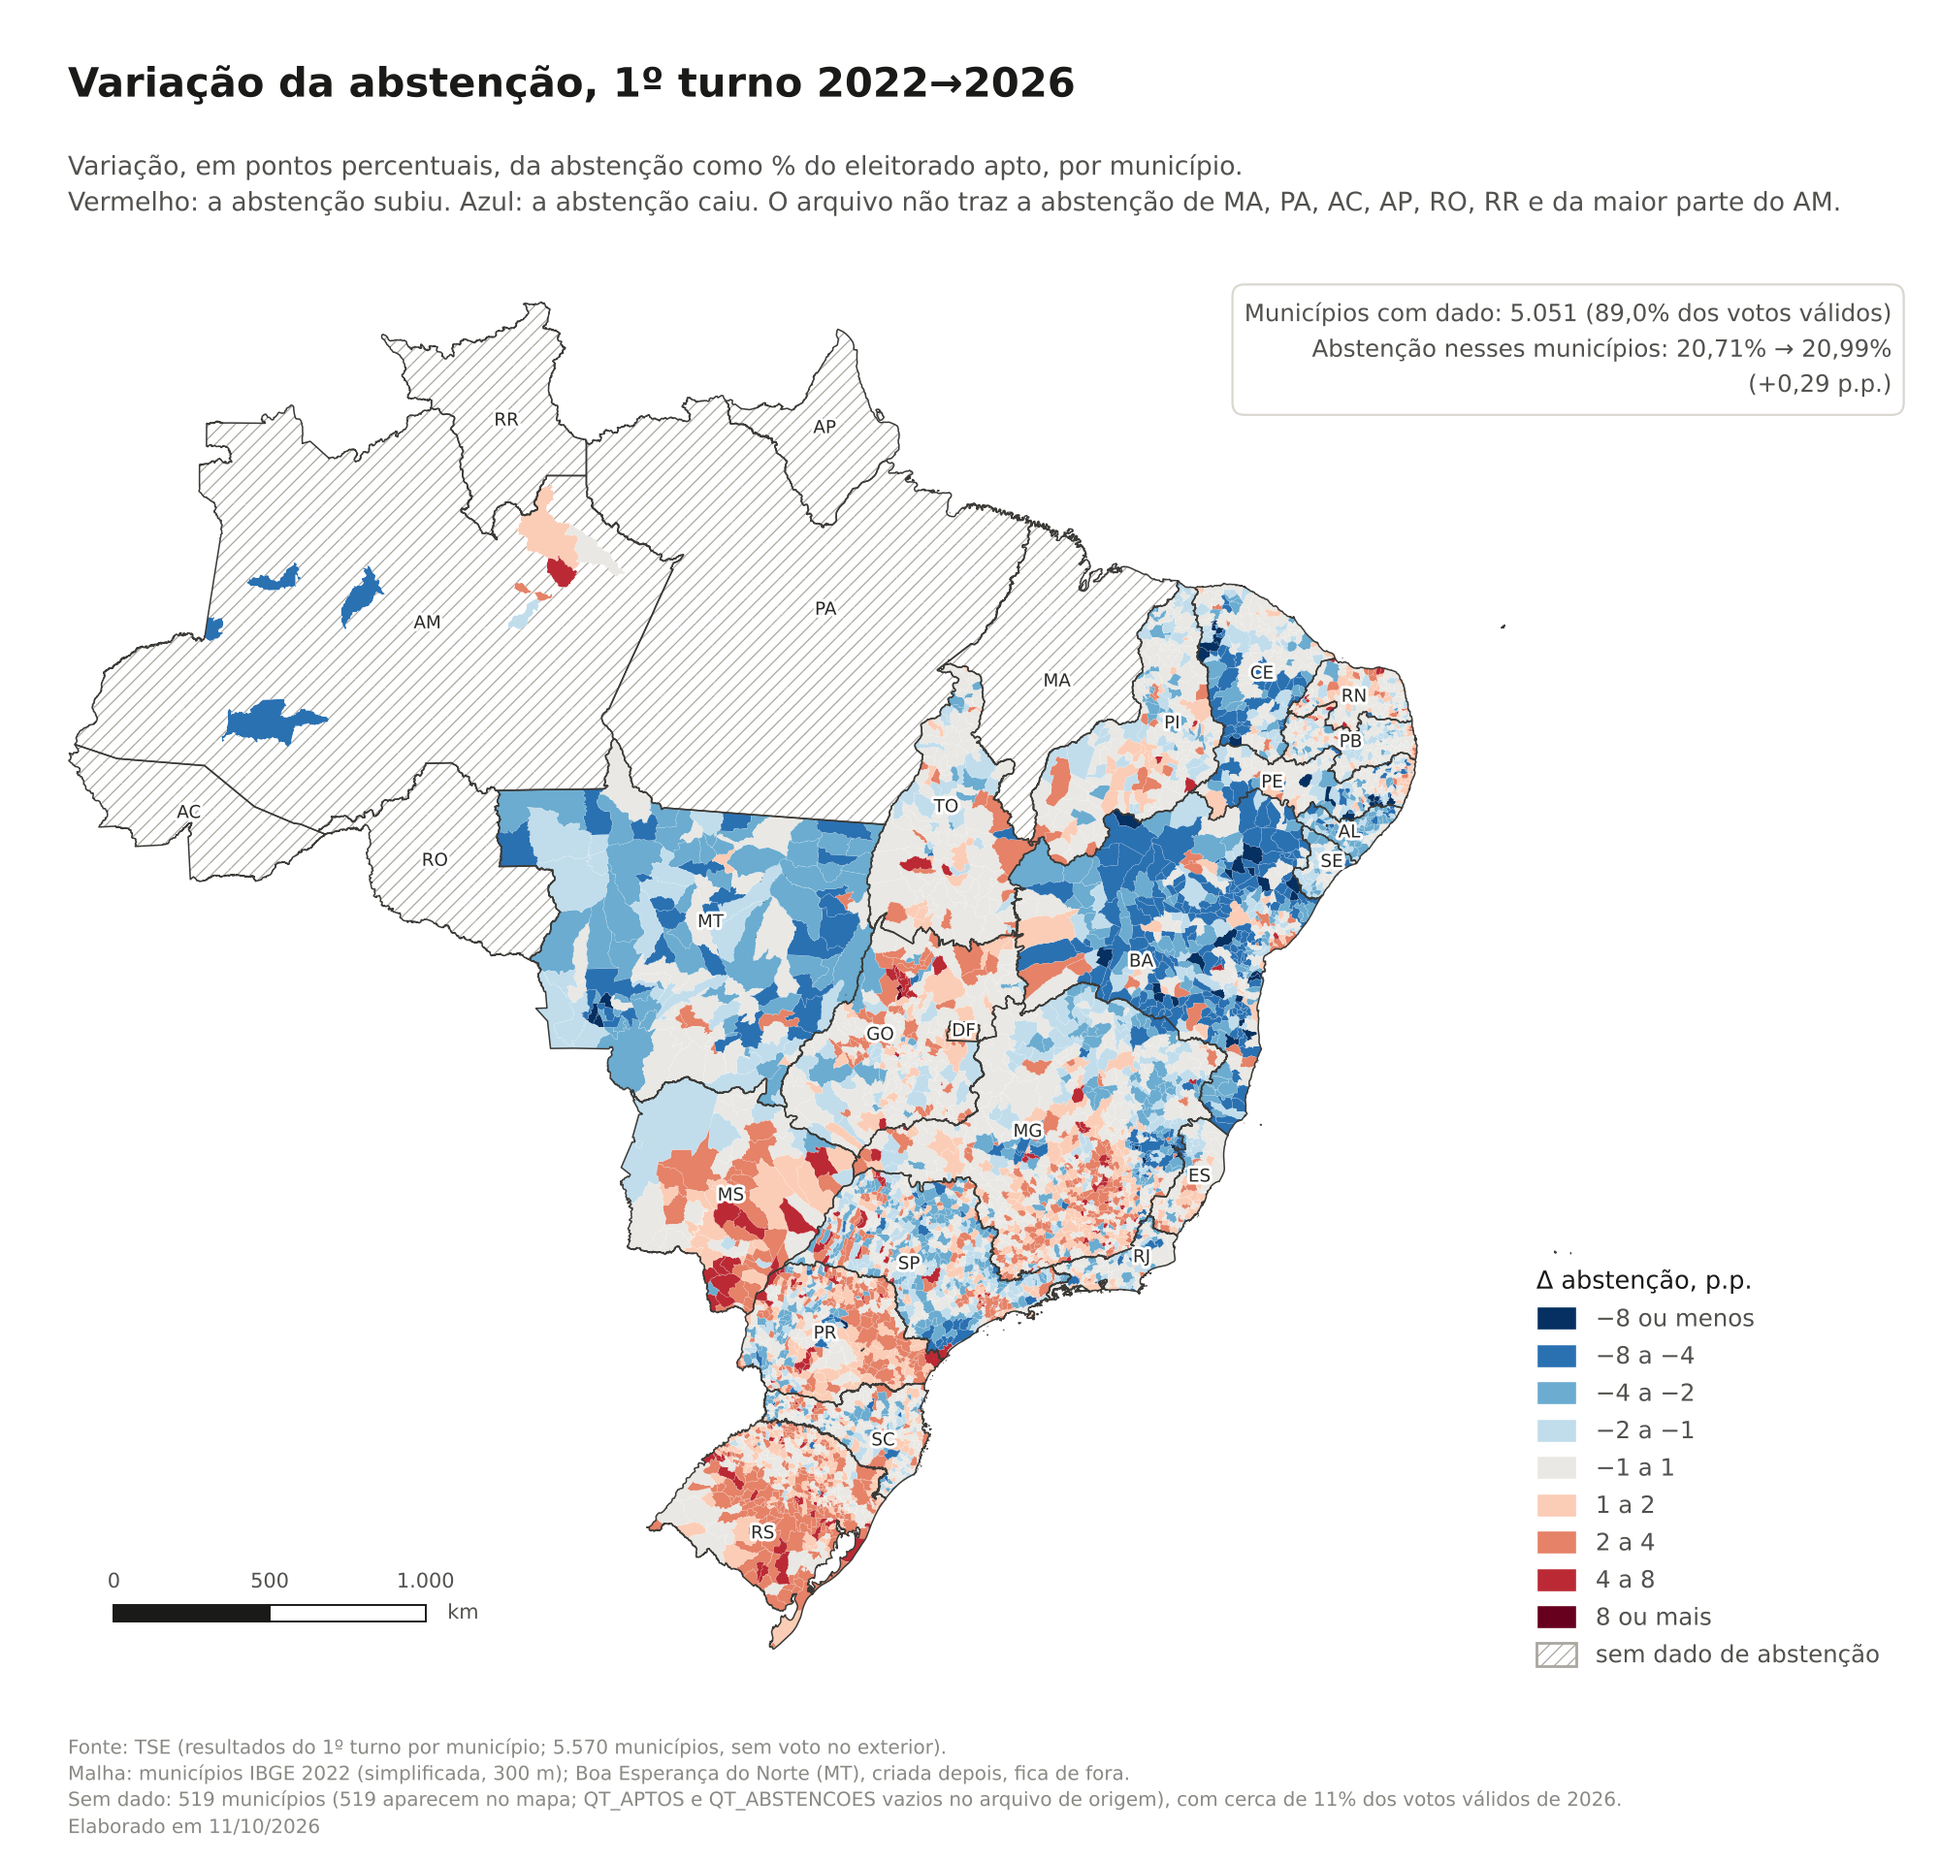
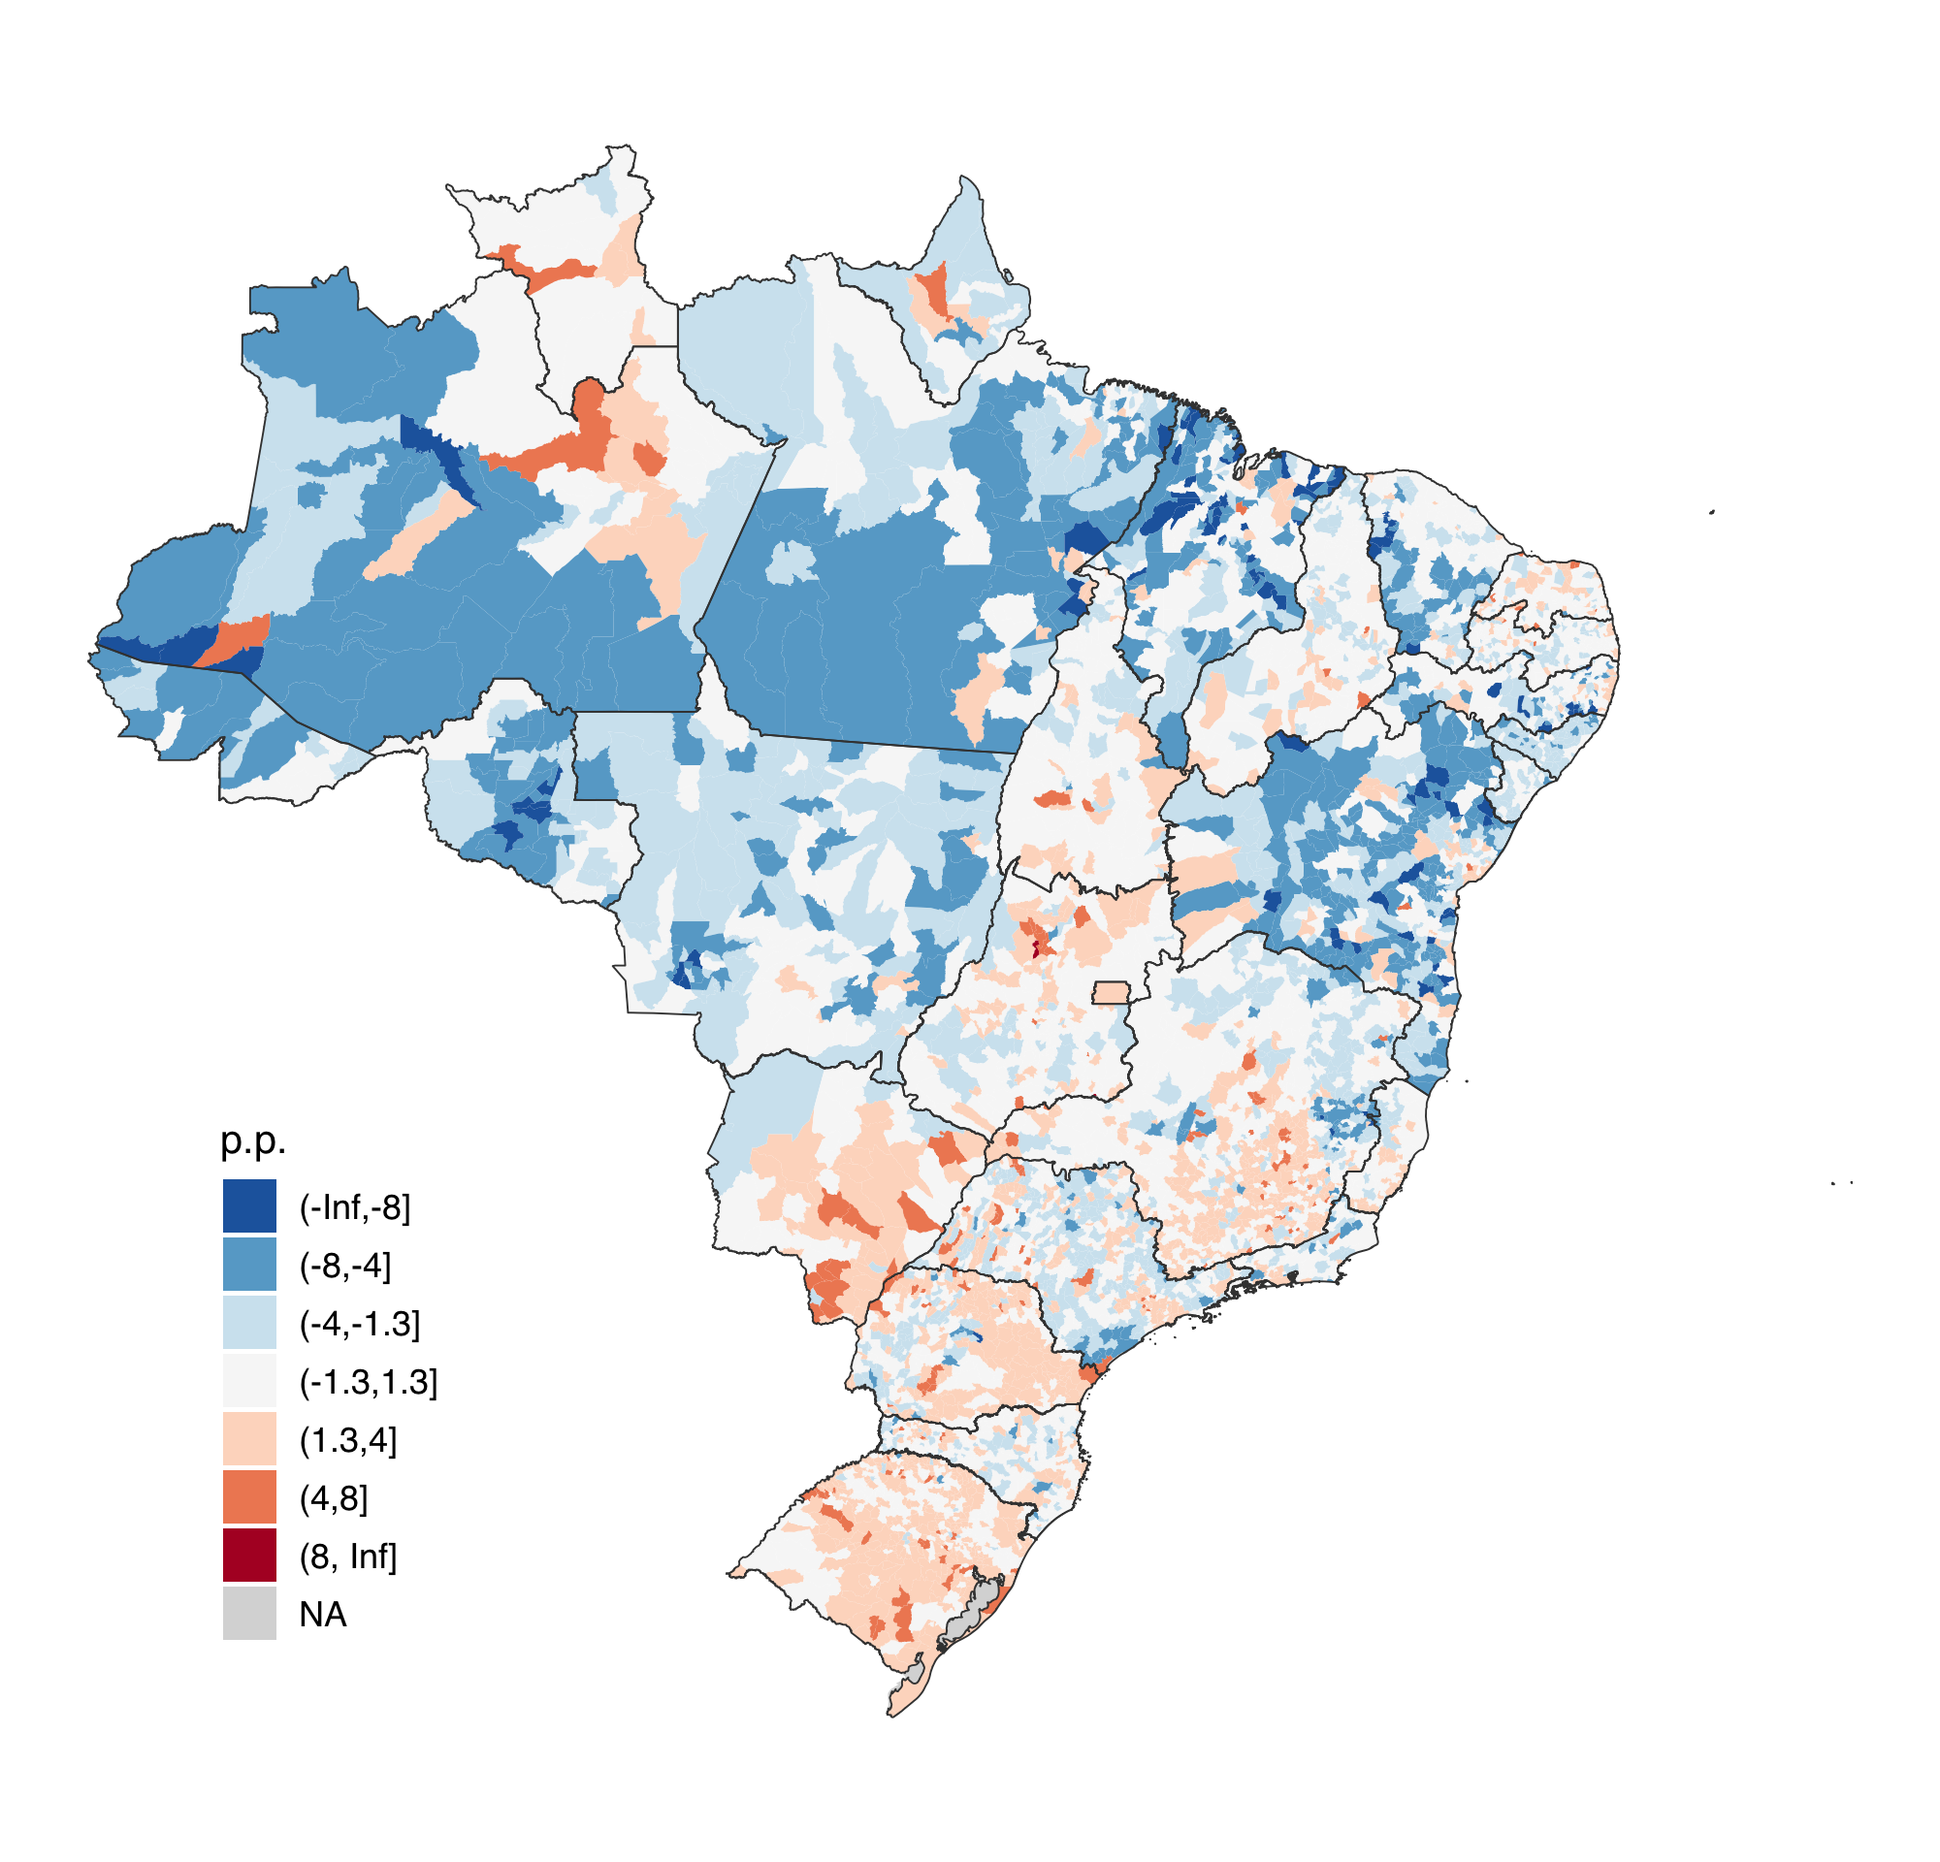
Inclui estudo de participação: abstenção e brancos/nulos nos 5.570 municípios
Refaz a seção de abstenção com o arquivo completo do TSE (antes faltavam
519 municípios), acrescenta mapa de níveis 2022/2026 e nova seção de
brancos e nulos; ajusta síntese, limites e cartograma.

diff --git a/index.html b/index.html
@@ -3,7 +3,7 @@
 <head>
 <meta charset="utf-8">
 <meta name="viewport" content="width=device-width,initial-scale=1,viewport-fit=cover">
-<meta name="description" content="Cinco mapas do swing eleitoral de 2022 para 2026 nos 5.570 municípios brasileiros, com leitura e cuidados de interpretação.">
+<meta name="description" content="Mapas do swing eleitoral e da participação (abstenção, brancos e nulos) de 2022 para 2026 nos 5.570 municípios brasileiros, com leitura e cuidados de interpretação.">
 <title>Geografia do Voto 2026</title>
 <style>:root{color-scheme:light;padding-block:env(safe-area-inset-top,0px) env(safe-area-inset-bottom,0px)}body{margin:0}img{max-width:100%}[hidden]{display:none!important}</style>
 <link rel="preconnect" href="https://fonts.googleapis.com">
@@ -97,7 +97,7 @@ dialog#zoom::backdrop{background:rgba(0,0,0,.82)}
 <header class="top">
   <p class="kicker">Eleições presidenciais · 1º turno 2022 → 2026</p>
   <h1>Onde Lula perdeu votos e onde a direita os ganhou</h1>
-  <p class="lede">Cinco mapas comparam o resultado de 2022 com o de 2026 nos 5.570 municípios. A perda de Lula se concentra no Sudeste e no Sul. Em Goiás e no Ceará, candidatos regionais mudam o desenho do mapa. A abstenção quase não explica a queda.</p>
+  <p class="lede">Os mapas comparam o resultado de 2022 com o de 2026 nos 5.570 municípios. A perda de Lula se concentra no Sudeste e no Sul. Em Goiás e no Ceará, candidatos regionais mudam o desenho do mapa. A abstenção ficou estável no país e quase não explica a queda; brancos e nulos subiram, sobretudo no Norte e no Nordeste.</p>
 
   <div class="numeros">
     <div class="num p"><b>−3,28</b><span>p.p. de votos válidos de Lula</span></div>
@@ -112,6 +112,7 @@ dialog#zoom::backdrop{background:rgba(0,0,0,.82)}
   <ul>
     <li><a href="#diferenca">Troca direta ou terceiros</a></li>
     <li><a href="#abstencao">Abstenção</a></li>
+    <li><a href="#brancos">Brancos e nulos</a></li>
     <li><a href="#dispersao">Dispersão</a></li>
     <li><a href="#cartograma">Cartograma</a></li>
     <li><a href="#votos">Votos absolutos</a></li>
@@ -150,24 +151,53 @@ dialog#zoom::backdrop{background:rgba(0,0,0,.82)}
   <h2>A abstenção explica a perda?</h2>
   <p class="pergunta">Se eleitores de Lula deixaram de votar, a abstenção deveria subir onde ele mais perdeu.</p>
   <figure>
-    <button class="moldura" type="button" data-zoom><img src="img/abstencao.png" width="2000" height="1920" alt="Mapa da variação da abstenção por município. Azul no Nordeste e no Mato Grosso, vermelho no Sul e em Mato Grosso do Sul. Maranhão, Pará, Acre, Amapá, Rondônia, Roraima e quase todo o Amazonas aparecem hachurados, sem dado." loading="lazy"></button>
-    <figcaption>Variação da abstenção, em p.p. do eleitorado apto. Áreas hachuradas não têm dado no arquivo de origem.</figcaption>
+    <button class="moldura" type="button" data-zoom><img src="img/abstencao.png" width="2000" height="1920" alt="Mapa da variação da abstenção por município entre 2022 e 2026. Azul, queda, em boa parte do Norte e do Nordeste; vermelho claro, alta, no Sul, em Mato Grosso do Sul e em partes do Sudeste e de Goiás." loading="lazy"></button>
+    <figcaption>Variação da abstenção, em p.p. do eleitorado apto, nos 5.570 municípios. Vermelho: subiu; azul: caiu.</figcaption>
+  </figure>
+  <figure>
+    <button class="moldura" type="button" data-zoom><img src="img/abstencao_niveis.png" width="3200" height="1800" alt="Dois mapas lado a lado com a abstenção por município em 2022 e em 2026, nas mesmas seis classes. Os tons mais escuros ficam na Amazônia, no Centro-Oeste e em Minas Gerais nos dois anos." loading="lazy"></button>
+    <figcaption>Abstenção em 2022 e em 2026, em % dos aptos. Mesmas classes nos dois anos (quantis do conjunto), para a comparação ser honesta.</figcaption>
   </figure>
   <div class="texto">
     <div>
       <h3>O que mostra</h3>
       <ul>
-        <li>Nos 5.051 municípios com dado, a abstenção vai de <strong>20,71% para 20,99%</strong> (+0,29 p.p.).</li>
-        <li>Ela <strong>sobe no Sul (+1,12 p.p.) e no Sudeste (+0,75)</strong> e <strong>cai no Nordeste (−0,96)</strong>.</li>
-        <li>A correlação entre a variação da abstenção e o swing de Lula é de <strong>0,09</strong>. Onde Lula perdeu mais, a abstenção não subiu de forma sistemática.</li>
+        <li>Nos 5.570 municípios, a abstenção fica <strong>praticamente estável: de 20,82% para 20,87%</strong> (+0,05 p.p.). Sobe em 2.598 municípios e cai nos outros 2.972.</li>
+        <li>Ela <strong>sobe no Sul (+1,12 p.p.), no Sudeste (+0,75) e no Centro-Oeste (+0,37)</strong> e <strong>cai no Norte (−1,51) e no Nordeste (−1,14)</strong>. Por estado, as maiores altas são MS, RS, DF e PR; as maiores quedas, RO, MA, PA e AP.</li>
+        <li>A correlação entre a variação da abstenção e o swing de Lula é <strong>fraca</strong>: −0,24 entre municípios e +0,12 ponderando pelo eleitorado. O sinal muda conforme o peso; em nenhum caso a abstenção acompanha de perto a perda de Lula.</li>
       </ul>
     </div>
     <div>
       <h3>Por que importa</h3>
       <p>A perda de Lula está mais ligada a mudança de voto do que a ausência de eleitores. Isso reduz o peso de uma estratégia baseada só em levar de volta quem não compareceu.</p>
-      <p>O padrão regional é nítido: a abstenção subiu no Sul e no Sudeste, onde Lula mais perdeu votos, e caiu no Nordeste.</p>
+      <p>O padrão regional é nítido: a abstenção subiu no Sul e no Sudeste, onde Lula mais perdeu votos, e caiu no Norte e no Nordeste. Os dois movimentos quase se anulam no total do país.</p>
     </div>
-    <p class="cuidado"><b>Cuidado.</b> Faltam eleitorado apto e abstenção em <b>519 municípios</b> (MA, PA, AC, AP, RO, RR e 53 do AM), cerca de 11% dos votos válidos. A leitura vale para os 89% restantes.</p>
+    <p class="cuidado"><b>Cuidado.</b> A abstenção também conta eleitores mortos ou que mudaram de domicílio sem baixa no cadastro; onde o cadastro está desatualizado, ela é inflada. A versão anterior desta página deixava 519 municípios (MA, PA, AC, AP, RO, RR e parte do AM) sem dado; os números acima usam o arquivo completo do TSE.</p>
+  </div>
+</section>
+
+<section class="mapa" id="brancos">
+  <h2>Quem foi votar e não escolheu</h2>
+  <p class="pergunta">Brancos e nulos medem o eleitor que compareceu, mas recusou os candidatos. Onde eles cresceram?</p>
+  <figure>
+    <button class="moldura" type="button" data-zoom><img src="img/brancos_nulos.png" width="2000" height="1920" alt="Mapa da variação de brancos e nulos por município entre 2022 e 2026. Vermelho em quase todo o Pará, no Ceará, em Alagoas, na Paraíba e em partes do Rio Grande do Sul; cinza na maior parte do Centro-Sul." loading="lazy"></button>
+    <figcaption>Variação de brancos e nulos, em p.p. do comparecimento. Vermelho: subiu; azul: caiu.</figcaption>
+  </figure>
+  <div class="texto">
+    <div>
+      <h3>O que mostra</h3>
+      <ul>
+        <li>No país, brancos e nulos passam de <strong>4,41% para 4,77%</strong> do comparecimento (+0,36 p.p.). Sobem em 3.796 dos 5.570 municípios.</li>
+        <li>A alta é maior no <strong>Norte (+0,90 p.p.)</strong> e no <strong>Nordeste (+0,64)</strong>; no Sul (+0,07) e no Centro-Oeste (+0,17) quase não mudam.</li>
+        <li>Em 547 municípios a alta passa de 1,5 p.p., sobretudo no <strong>Pará (115), Ceará (99), Alagoas (89) e Paraíba (69)</strong>. No Pará, a alta cobre quase todo o estado.</li>
+      </ul>
+    </div>
+    <div>
+      <h3>Por que importa</h3>
+      <p>No Norte e no Nordeste, a abstenção caiu e brancos e nulos subiram: mais eleitores foram às urnas, mas parte deles não escolheu ninguém para presidente. No Sul o movimento é o inverso: mais ausência, quase nenhuma mudança no voto em branco ou nulo.</p>
+      <p>A correlação entre a variação de brancos e nulos e o swing de Lula é praticamente nula (0,02). O voto que Lula perdeu não foi, no agregado, para o branco ou o nulo.</p>
+    </div>
+    <p class="cuidado"><b>Cuidado.</b> Nulos incluem erros de digitação e votos anulados por decisão judicial. A alta quase uniforme no Pará sugere um fator estadual, ainda não investigado.</p>
   </div>
 </section>
 
@@ -217,7 +247,7 @@ dialog#zoom::backdrop{background:rgba(0,0,0,.82)}
       <h3>Por que importa</h3>
       <p>Em um mapa de área, regiões pouco povoadas ocupam muito espaço. No cartograma, o que pesa é onde há muitos eleitores, e a mudança fica no Sudeste e no Sul.</p>
     </div>
-    <p class="cuidado"><b>Cuidado.</b> O peso é o de votos válidos de 2026, não o do eleitorado apto, que está vazio em 519 municípios. Os círculos foram afastados por simulação: deslocamento mediano de 0,4 km, 90% abaixo de 63 km e máximo de 326 km.</p>
+    <p class="cuidado"><b>Cuidado.</b> O peso é o de votos válidos de 2026, não o do eleitorado apto. Os círculos foram afastados por simulação: deslocamento mediano de 0,4 km, 90% abaixo de 63 km e máximo de 326 km.</p>
   </div>
 </section>
 
@@ -248,12 +278,12 @@ dialog#zoom::backdrop{background:rgba(0,0,0,.82)}
 </section>
 
 <section class="sintese" id="sintese">
-  <h2>O que os cinco mapas indicam para o 2º turno</h2>
+  <h2>O que os mapas indicam para o 2º turno</h2>
   <p class="aviso">Leituras possíveis a partir dos mapas. Os mapas mostram padrões; as explicações abaixo são hipóteses e precisam de pesquisa de opinião para serem testadas.</p>
   <div class="cols">
     <div class="col"><h3>Sudeste e Sul decidem</h3><p>É onde Lula perdeu 2,77 milhões dos 3,40 milhões de votos, e onde a troca com a direita é quase de um para um. A disputa principal é por eleitores que votaram nele em 2022.</p></div>
     <div class="col"><h3>Terceiros são o reservatório</h3><p>Os demais candidatos somam 7,8% dos votos válidos. Em Goiás e no Ceará, o voto em Caiado (GO) e o voto regional em Ciro em 2022 (CE) mostram eleitores que não estavam fixados em nenhum dos dois campos.</p></div>
-    <div class="col"><h3>Comparecimento é secundário</h3><p>A correlação de 0,09 entre abstenção e perda de Lula indica que levar eleitores às urnas não recupera, sozinho, o que foi perdido. Pesa mais o voto de quem compareceu.</p></div>
+    <div class="col"><h3>Comparecimento é secundário</h3><p>A abstenção ficou estável no país (+0,05 p.p.) e sua relação com a perda de Lula é fraca. Brancos e nulos subiram no Norte e no Nordeste, mas não acompanham a perda. Levar eleitores às urnas não recupera, sozinho, o que foi perdido; pesa mais o voto de quem compareceu.</p></div>
   </div>
 </section>
 
@@ -262,12 +292,12 @@ dialog#zoom::backdrop{background:rgba(0,0,0,.82)}
   <ul>
     <li><strong>Fonte dos votos:</strong> TSE, 1º turno por município, 2022 e 2026. Variações em pontos percentuais de votos válidos. “Direita” é só Jair (2022) ou Flávio (2026) Bolsonaro; “esquerda” é só Lula.</li>
     <li><strong>Malha:</strong> municípios do IBGE de 2022, simplificados (tolerância de 300 m). Boa Esperança do Norte (MT) foi criada depois e fica fora da comparação.</li>
-    <li><strong>Abstenção:</strong> sem dado em 519 municípios, o que também impede ponderar o cartograma pelo eleitorado apto.</li>
+    <li><strong>Abstenção, brancos e nulos:</strong> TSE, detalhe da apuração por município e zona, 1º turno, 2022 e 2026 (arquivos gerados em 11/10/2026), com os 5.570 municípios. Abstenção sobre o eleitorado apto; brancos e nulos sobre o comparecimento; médias regionais e nacionais somam as contagens. Exterior excluído. Voto em trânsito somado ao município da seção.</li>
     <li><strong>Inferência:</strong> todos os resultados são agregados por município e não dizem como cada eleitor votou.</li>
   </ul>
 </section>
 </main>
-<footer>Elaborado em 11 de outubro de 2026.</footer>
+<footer>Elaborado em 11 de outubro de 2026. Abstenção, brancos e nulos revistos em 12 de outubro de 2026.</footer>
 </div>
 
 <dialog id="zoom" aria-label="Mapa ampliado">
